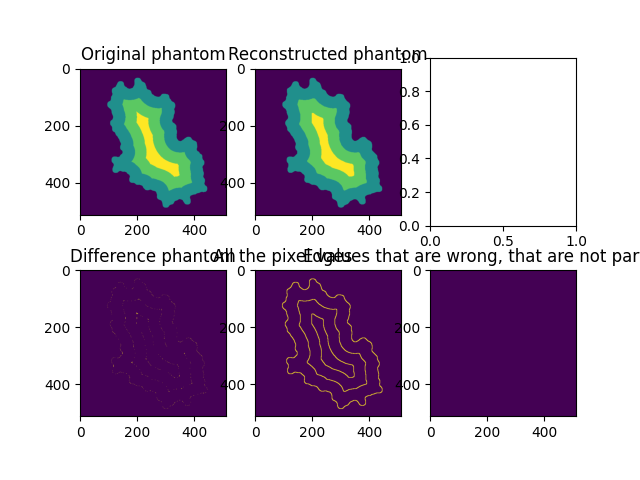
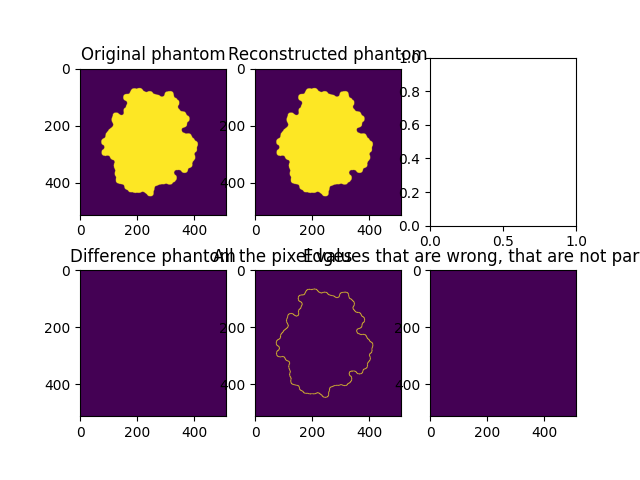
Finalized code for plotting the results

Changed region(s): [[0.1562, 0.1562, 0.3438, 0.4375], [0.4062, 0.1562, 0.5938, 0.4375], [0.4375, 0.5938, 0.5938, 0.8438]]

diff --git a/PlotExperiment2.py b/PlotExperiment2.py
@@ -12,8 +12,7 @@ TITLE_SIZE = 20          # Size for subplot titles
 SUPTITLE_SIZE = 16       # Size for overall figure super title
 AXIS_LABEL_SIZE = 20     # Size for x and y axis labels
 TICK_LABEL_SIZE = 20     # Size for tick labels
-LEGEND_FONT_SIZE = 18    # Size for legend text
-LEGEND_TITLE_SIZE = 18   # Size for legend title (if any)
+LEGEND_FONT_SIZE = 18     # Size for legend text
 
 # Figure dimensions
 FIGURE_WIDTH = 20        # Width of the entire figure in inches
@@ -22,7 +21,7 @@ FIGURE_HEIGHT_PER_ROW = 7# Height per experiment row in inches
 # Marker and line settings
 MARKER_SIZE = 6          # Size of markers in line plots
 LINE_WIDTH = 2           # Width of lines in line plots
-BAR_WIDTH = 0.2          # Width of bars in bar plots
+BAR_WIDTH = 0.3          # Width of bars in bar plots
 ERRORBAR_CAPSIZE = 3     # Size of error bar caps
 
 # Grid and transparency
@@ -37,51 +36,46 @@ DPI = 300                # Resolution for saved figures
 # Experiment configuration
 # ============================================================================
 BASE_RESULTS_DIR = "./Results"          # where Config.save_dir points to
-OUTPUT_DIR = os.path.join("Results", "Experiment_1")
+OUTPUT_DIR = os.path.join("Results", "Experiment_2")
 os.makedirs(OUTPUT_DIR, exist_ok=True)
+
+# SNR values used in Experiment2
+SNR_VALUES = [10, 20, 30]
 
 EXPERIMENTS = {
     "smoothing": {
         "param_name": r"Smoothing $\sigma$",
         "param_values": [None, 0.5, 1, 2, 3],
         "is_categorical": False,
+        "folder_name": "smoothing",
     },
-    "angle_ordering": {
-        "param_name": "Angle ordering",
-        "param_values": ["sequential", "random", "maximally seperated"],
-        "is_categorical": True,
-    },
-    "InitialARM": {
-        "param_name": "Initial ARM iterations",
-        "param_values": [5, 10, 50, 200],
+    "sart_relaxation": {
+        "param_name": r"SART relaxation $\lambda$",
+        "param_values": [0.1, 0.5, 1.0, 1.5, 2.0],
         "is_categorical": False,
+        "folder_name": "sart_relaxation",
     },
     "InternalARM": {
         "param_name": "Internal ARM iterations",
         "param_values": [1, 3, 5, 10, 20],
         "is_categorical": False,
-    },
-    "sart_relaxation": {
-        "param_name": "SART relaxation λ",
-        "param_values": [0.1, 0.5, 1.0, 1.5, 2.0],
-        "is_categorical": False,
+        "folder_name": "InternalARM",
     },
 }
 
-PHANTOMS = ["phantom_1", "phantom_2", "phantom_3", "phantom_4"]
-PHANTOM_NAMES ={"phantom_1": 'Phantom (1)', 
-                "phantom_2": 'Phantom (2)', 
-                "phantom_3": 'Phantom (3)', 
+# Only phantoms 2 and 4 (matching Experiment2)
+PHANTOMS = ["phantom_2", "phantom_4"]
+PHANTOM_NAMES ={"phantom_2": 'Phantom (2)', 
                 "phantom_4": 'Phantom (4)'}
-PROJECTIONS = [10, 25]
 N_ITERS = 10
 
 # ============================================================================
 # Helper: load results and return the LAST k_error value from each run
 # ============================================================================
-def load_results(exp_type: str, param_val: Any, n_proj: int, phantom: str) -> List[float]:
+def load_results(exp_type: str, param_val: Any, snr: int, phantom: str) -> List[float]:
+    exp_folder = EXPERIMENTS[exp_type]["folder_name"]
     param_str = "None" if param_val is None else str(param_val)
-    folder = os.path.join(BASE_RESULTS_DIR, exp_type, param_str, f"projections_{n_proj}")
+    folder = os.path.join(BASE_RESULTS_DIR, exp_folder, param_str, f"snr_{snr}")
     file_path = os.path.join(folder, f"{phantom}.pkl")
     
     if not os.path.exists(file_path):
@@ -98,7 +92,6 @@ def load_results(exp_type: str, param_val: Any, n_proj: int, phantom: str) -> Li
         k_error_list = data[idx]["K_error"]
         if len(k_error_list) > 0:
             final_k_errors.append(k_error_list[-1])
-    
     return final_k_errors
 
 # ============================================================================
@@ -106,9 +99,9 @@ def load_results(exp_type: str, param_val: Any, n_proj: int, phantom: str) -> Li
 # ============================================================================
 def plot_all_experiments_combined():
     n_experiments = len(EXPERIMENTS)
-    fig, axes = plt.subplots(n_experiments, 2, 
+    fig, axes = plt.subplots(n_experiments, 3, 
                             figsize=(FIGURE_WIDTH, FIGURE_HEIGHT_PER_ROW * n_experiments))
-    fig.suptitle("Hyperparameter Ablation Studies: Final k_error", fontsize=SUPTITLE_SIZE, y=1.02)
+
 
     if n_experiments == 1:
         axes = axes.reshape(1, -1)
@@ -129,15 +122,15 @@ def plot_all_experiments_combined():
         else:
             numeric_vals = param_vals
 
-        for col, n_proj in enumerate(PROJECTIONS):
+        for col, snr in enumerate(SNR_VALUES):
             ax = axes[row, col]
-            ax.set_title(f"{param_name} – {n_proj} projections", fontsize=TITLE_SIZE)
+            ax.set_title(f"{param_name} – SNR = {snr}", fontsize=TITLE_SIZE)
             ax.set_xlabel(param_name, fontsize=AXIS_LABEL_SIZE)
             if col == 0:
-                ax.set_ylabel(r"Final $k-error$", fontsize=AXIS_LABEL_SIZE)
+                ax.set_ylabel("Final k_error", fontsize=AXIS_LABEL_SIZE)
             
-            # Use log scale for y-axis
-            ax.set_yscale('log')
+            ax.yaxis.set_major_formatter(plt.ScalarFormatter(useMathText=True))
+            ax.ticklabel_format(axis='y', style='scientific', scilimits=(4,4))
             
             # Set tick label sizes
             ax.tick_params(axis='both', labelsize=TICK_LABEL_SIZE)
@@ -146,7 +139,7 @@ def plot_all_experiments_combined():
                 means = []
                 stds = []
                 for pv in param_vals:
-                    final_k_errors = load_results(exp_type, pv, n_proj, phantom)
+                    final_k_errors = load_results(exp_type, pv, snr, phantom)
                     if len(final_k_errors) == 0:
                         means.append(np.nan)
                         stds.append(np.nan)
@@ -197,7 +190,7 @@ def plot_all_experiments_combined():
                 ax.legend(loc='best', fontsize=LEGEND_FONT_SIZE, framealpha=0.9)
 
     plt.tight_layout()
-    save_path = os.path.join(OUTPUT_DIR, "all_experiments_k_error.png")
+    save_path = os.path.join(OUTPUT_DIR, "all_experiments_k_error_SNR.png")
     plt.savefig(save_path, dpi=DPI, bbox_inches='tight')
     print(f"Figure saved to {save_path}")
     plt.show()
